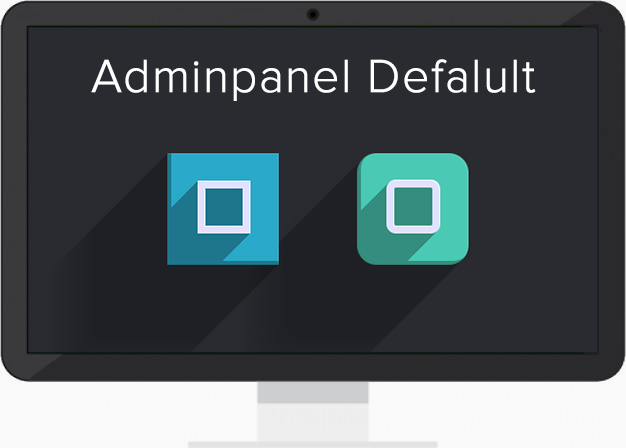
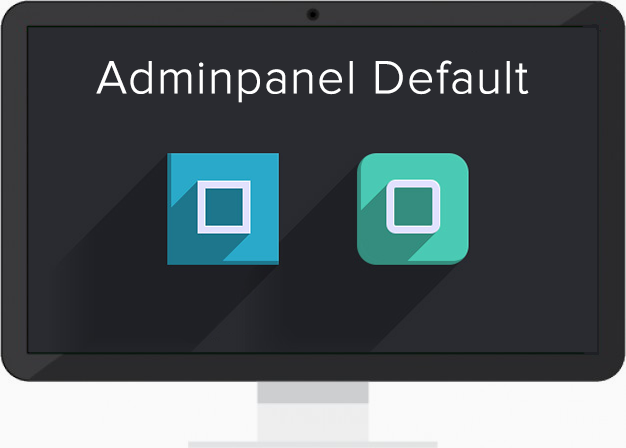
fixes

Changed region(s): [[0.1518, 0.125, 0.8498, 0.25]]

diff --git a/common/templates/skin/admin-default/assets/css/main.css b/common/templates/skin/admin-default/assets/css/main.css
@@ -175,7 +175,6 @@ label                                   { display: block }
     #content                         { width: 100%!important; margin-left: 0!important; padding-top: 10px; }
     .container:before                { width: 100%; }
     .navbar-collapse                 { padding-left: 0 }
[1 lines of base64/hex data omitted]
     .navbar-inverse .navbar-toggle,
     .navbar-inverse .navbar-collapse,
     .navbar-inverse .navbar-form     { border-color: transparent }
@@ -195,100 +194,36 @@ label                                   { display: block }
     NEW
 ------------------------------------------------------------------- */
 
-.dropdown-menu li a,
-.menu-left li a,
-.navbar-inverse {
-    font-size: 14px;
-}
+.dropdown-menu li a, .menu-left li a, .navbar-inverse
+                                        { font-size: 14px }
+.btn-danger, .btn-primary               { border: 0; font-weight: bold; font-size: 13px; -webkit-box-shadow: inset 0 -2px 0 rgba(0, 0, 0, 0.15); box-shadow: inset 0 -2px 0 rgba(0, 0, 0, 0.15); }
+.btn:hover                              { opacity: 0.8 }
[1 lines of base64/hex data omitted]
+.navbar-inverse .navbar-collapse        { position: relative; }
+.navbar-inverse:after                   { content: ""; width: 100%; position: absolute; bottom: 0; border-bottom: 4px solid rgba(0, 0, 0, 0.2); z-index: 1; }
+.b-wbox                                 { position: relative }
+.form-actions .btn.pull-right           { margin-right: 20px; position: relative; top: -15px; }
+.b-wbox:after                           { pointer-events: none; position: absolute; content: ''; height: 0; width: 0; bottom: -1px; right: -1px; background: #FFF; background: -webkit-linear-gradient(135deg, #F5F5F5 45%, #ddd 50%, #ddd 56%, #ddd 80%); background: linear-gradient(315deg, #F5F5F5 45%, #ddd 50%, #ddd 56%, #ddd 80%); -webkit-transition-duration: 0.3s; transition-duration: 0.3s; -webkit-transition-property: width, height; transition-property: width, height; -webkit-transition-delay: 2s; transition-delay: 2s; width: 25px; height: 25px; }
+.b-wbox:before                          { position: absolute; content: ''; bottom: -1px; right: 24px; background: #FFF; background: -webkit-linear-gradient(135deg, rgba(0, 0, 0, 0.04) 45%, rgba(255, 255, 255, 0) 50%, rgba(255, 255, 255, 0) 56%, rgba(255, 255, 255, 0) 80%); background: linear-gradient(315deg, rgba(0, 0, 0, 0.04) 45%, rgba(255, 255, 255, 0) 50%, rgba(255, 255, 255, 0) 56%, rgba(255, 255, 255, 0) 80%); -webkit-transition-duration: 0.3s; transition-duration: 0.3s; -webkit-transition-property: width, height; transition-property: width, height; -webkit-transition-delay: 2s; transition-delay: 2s; width: 20px; height: 20px; z-index: 2; }
+.nav.navbar-nav.navbar-right .icon      { font-size: 15px; position: relative; margin-right: 4px; }
+.nav.navbar-nav.navbar-right .dropdown-menu .icon
+                                        { font-size: 13px }
+.btn-danger, .b-wbox-header .close, .b-wbox-header-title, .btn-primary, .nav, .menu-left li a, h1, h2, h3, h4, h5, h6, .h1, .h2, .h3, .h4, .h5, .h6
+                                        { font-family: "Cuprum"!important }
+body, div                               { font-family: "Ubuntu"!important }
+div.dataTables_wrapper .ui-widget-header, .b-wbox-header, .modal-header, .table th
+                                        { border-bottom: 1px solid #eee }
+.b-wbox-header .close, .b-wbox-header-title
+                                        { color: #333 }
+#breadcrumb                             { background-color: #f9f9f9 }
+.btn, .b-page-stats, .b-content-header-title
+                                        { font-weight: 300 }
+.input-group-btn .btn                   { padding-bottom: 7px }
+.menu-left li                           { border-top: 1px solid rgba(255, 255, 255, 0.05); border-bottom: 1px solid rgba(0, 0, 0, 0.1); }
+.menu-left ul                           { position: relative }
+.menu-left li ul li:first-child:after, .menu-left li:first-child:after
+                                        { content: ""; display: block; border-top: 1px solid rgba(0, 0, 0, 0.1); top: 0; position: absolute; width: 100%; }
 
-.btn-danger,
-.btn-primary {
-    border: 0;
-    font-weight: bold;
-    font-size: 13px; 
-    -webkit-box-shadow: inset 0 -2px 0 rgba(0, 0, 0, 0.15);
-    box-shadow: inset 0 -2px 0 rgba(0, 0, 0, 0.15);
-}
+.input-group-addon:last-child { border-left: 1px solid #DDD; left: -3px; position: relative; }
 
-.btn:hover {
-    opacity: 0.9;
-}
-
-.navbar-fixed-top {
[1 lines of base64/hex data omitted]
-    background-position: right;
-    background-repeat: no-repeat;
-}
-.navbar-inverse .navbar-collapse {
-    position: relative;
-}
-
-.navbar-inverse:after            {
-    content: "";
-    width: 100%;
-    position: absolute;
-    bottom: 0;
-    border-bottom: 4px solid rgba(0, 0, 0, 0.2);
-    z-index: 1;
-}
-
-.b-wbox  {
-    position: relative;
-}
-
-.form-actions .btn.pull-right {
-    margin-right: 20px;
-    position: relative;
-    top: -15px;
-}
-
-.b-wbox-header .buttons .btn.btn-default.btn-mini.btn-toggle {
-    margin-right: 45px;
-}
-
-.b-wbox:after { pointer-events: none; position: absolute; content: ''; height: 0; width: 0; bottom: -1px; right: -1px; background: #FFF; background: -webkit-linear-gradient(135deg, #F5F5F5 45%, #ddd 50%, #ddd 56%, #ddd 80%); background: linear-gradient(315deg, #F5F5F5 45%, #ddd 50%, #ddd 56%, #ddd 80%); -webkit-transition-duration: 0.3s; transition-duration: 0.3s; -webkit-transition-property: width, height; transition-property: width, height; -webkit-transition-delay: 2s; transition-delay: 2s; width: 25px; height: 25px; }
-
-.b-wbox:before { position: absolute; content: '';  bottom: -1px; right: 24px; background: #FFF; background: -webkit-linear-gradient(135deg, rgba(0, 0, 0, 0.04) 45%, rgba(255, 255, 255, 0) 50%, rgba(255, 255, 255, 0) 56%, rgba(255, 255, 255, 0) 80%); background: linear-gradient(315deg, rgba(0, 0, 0, 0.04) 45%, rgba(255, 255, 255, 0) 50%, rgba(255, 255, 255, 0) 56%, rgba(255, 255, 255, 0) 80%); -webkit-transition-duration: 0.3s; transition-duration: 0.3s; -webkit-transition-property: width, height; transition-property: width, height; -webkit-transition-delay: 2s; transition-delay: 2s; width: 20px; height: 20px; z-index: 2; }
-
-
-.nav.navbar-nav.navbar-right .icon  {
-    font-size: 15px;
-    position: relative;
-    margin-right: 4px;
-}
-
-.nav.navbar-nav.navbar-right .dropdown-menu .icon {
-    font-size: 13px;
-}
-
-.btn-danger,
-.b-wbox-header .close, .b-wbox-header-title,
-.btn-primary,
-.nav,
-.menu-left li a,
-h1,h2,h3,h4,h5,h6,
-.h1,.h2,.h3,.h4,.h5,.h6
-{ font-family: "Cuprum"!important; }
-
-body, div
-{ font-family: "Ubuntu"!important; }
-
-div.dataTables_wrapper .ui-widget-header,
-.b-wbox-header,
-.modal-header,
-.table th                    { border-bottom: 1px solid #eee; }
-
-.b-wbox-header .close,
-.b-wbox-header-title         { color: #333; }
-
-#breadcrumb                  { background-color: #f9f9f9; }
-
-.btn,.b-page-stats,
-.b-content-header-title      { font-weight: 300; }
-.input-group-btn .btn        { padding-bottom: 7px; }
-
-.menu-left li                { border-top: 1px solid rgba(255, 255, 255, 0.05); border-bottom: 1px solid rgba(0, 0, 0, 0.1); }
-.menu-left ul                         { position: relative;}
-.menu-left li ul li:first-child:after,
-.menu-left li:first-child:after       { content: ""; display:block; border-top: 1px solid rgba(0, 0, 0, 0.1); top: 0; position: absolute; width: 100%; }
-
+.input-group-addon:first-child { border-right: 1px solid #DDD; right: -3px; position: relative; }

diff --git a/common/templates/skin/admin-default/themes/midnight/theme.css b/common/templates/skin/admin-default/themes/midnight/theme.css
@@ -6,6 +6,13 @@
 	max-width: 1300px!important;
 }
 
+.jq-radio.checked .jq-radio__div,
+.jq-radio.checked,
+.jq-selectbox li.selected,
+.jq-selectbox li:hover,
+.jq-checkbox.checked
+{background-color: #428BCA;}
+
 .container:before {
 	background:#2d335b;
 }
@@ -23,16 +30,12 @@
 	border-top: 1px solid #24233D;
 }
 
+
 .badge,
 .btn-default .badge {
 	background-color: #B94A48;
 }
 
-.jq-radio.checked .jq-radio__div,
-.jq-radio.checked,
-.jq-selectbox li.selected,
-.jq-selectbox li:hover,
-.jq-checkbox.checked,
 .navbar-inverse .navbar-nav>.open>a,
 .navbar-inverse .navbar-nav>.open>a:hover,
 .navbar-inverse .navbar-nav>.open>a:focus,
@@ -90,11 +93,11 @@ div.dataTables_wrapper .ui-widget-header {
 .menu-left li ul li:first-child:after { content: ""; display:block; border-top: 1px solid #262B49; top: 0; position: absolute; width: 100%; }
 
 .navbar-inverse { margin-left: 0px; }
-.navbar-inverse { background-image: url(../img/logo-midnight.png); background-repeat: no-repeat; background-position: 10px 10px; }
+.navbar-inverse { background-image: url(../midnight/img/logo-midnight.png); background-repeat: no-repeat; background-position: 10px 10px; }
 
 .goto-site   { float: left!important; }
-.goto-site a {}
+.goto-site a { padding-left: 60px!important; }
 
 @media (max-width: 600px) {
-	.goto-site a 	{ margin-left: -84px!important; }
+	.goto-site a 	{ margin-left: -44px!important; }
 }

diff --git a/common/templates/skin/admin-default/assets/css/main-forms.css b/common/templates/skin/admin-default/assets/css/main-forms.css
@@ -6,15 +6,6 @@ label, input, button, select, textarea { font-size: 12px; font-weight: normal; }
 
 input, textarea { background-color: #FCFCFC; border: 1px solid #ddd;padding: 7px 12px; display: inline-block; font-size: 12px; color: #555; vertical-align: middle; line-height: 1.5; -webkit-border-radius: 4px; -moz-border-radius: 4px; border-radius: 4px; }
 
-input:focus, textarea:focus {
-	outline: 2px solid #3276B1;
-}
-
-.input-group input,
-.input-group textarea {
-	border-radius: 0;
-}
-
 .jq-checkbox {
 	width: 19px;
 	height: 19px;

diff --git a/common/templates/skin/admin-default/assets/css/main-admin.css b/common/templates/skin/admin-default/assets/css/main-admin.css
@@ -8,7 +8,11 @@
     clear: both;
     visibility: hidden;
 }
-.-box:before { content: none; }
+
+.span12 .b-wbox:before,
+.span12 .b-wbox:after,
+.-box:before { content: none!important; }
+
 .b-users-list .link                     { float: left }
 * html.-box                             { height: 1% }
 *:first-child+html.-box                 { min-height: 1px }
